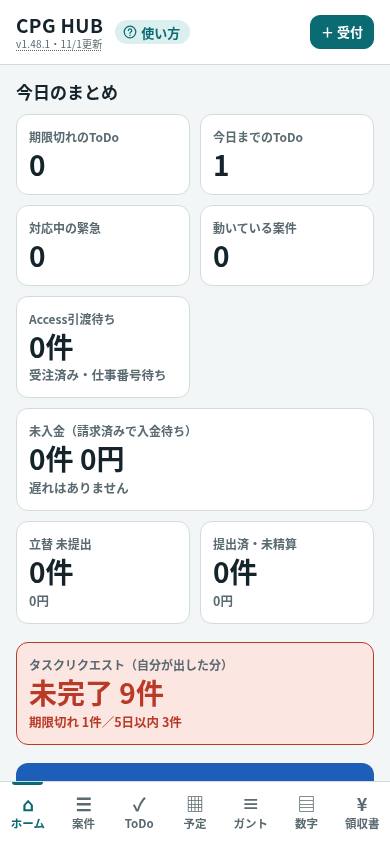
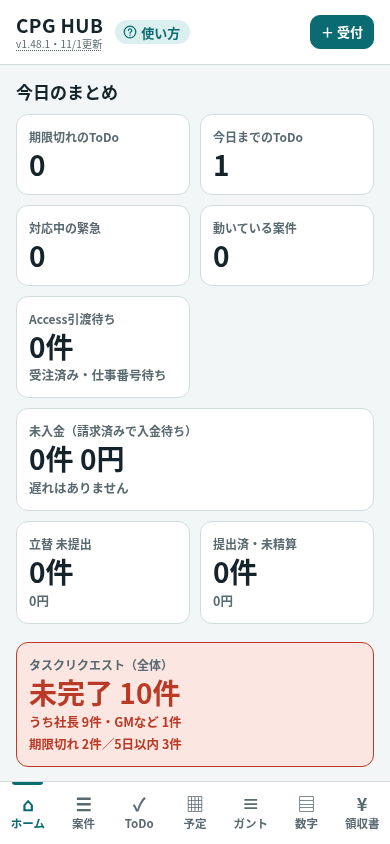
Show all issued requests and author filters for president

Changed region(s): [[0.0308, 0.7701, 0.9846, 0.9242]]

diff --git a/index.html b/index.html
@@ -734,20 +734,21 @@ function sentRequests(){
  let unread=0;
  if(!m||!Array.isArray(data))return {list:[],unread:1};
  for(const x of data){
-  if(!x.s||x.s.removed||eq(x.s.email,m.email)||(!m.admin&&!canSee(m.me,x.s)))continue;
+  if(!x.s||x.s.removed||(!m.admin&&(eq(x.s.email,m.email)||!canSee(m.me,x.s))))continue;
   if(!x.ok){unread++;continue;}
   if(x.s.boxId&&!Array.isArray(x.box))unread++;
   const add=(o,box)=>{
    const id=String(o['指示ID']||'');
    if(!id.startsWith(box?'B-':'I-')||!o['内容'])return;
-   if(box&&!eq(o['出した人Gmail'],m.email))return;
+   if(box&&!m.admin&&!eq(o['出した人Gmail'],m.email))return;
    const state=String(o['状態']||'');
    if(!['未完了','完了','取り消し'].includes(state)){unread++;return;}
    const resolved=box&&state!=='完了'?boxState(o,x.reports).st:state;
    const rank=resolved==='取り消し'?2:resolved==='完了'?1:0;
    const key=JSON.stringify([box?x.s.boxId:x.s.sheetId,id]);
    const old=groups.get(key);if(old&&old.rank>=rank)return;
-   groups.set(key,{rank,t:{id:'sent:'+key,ro:true,kind:'リクエスト',title:String(o['内容']),due:cellDate(o['期限']),tantou:x.s.name,from:box?String(o['出した人の表示']||''):'社長'}});
+   const boss=!box||eq(o['出した人Gmail'],ADMIN_ACCOUNT), sender= boss?'boss':String(o['出した人Gmail']||'').toLowerCase()||'unknown:'+key;
+   groups.set(key,{rank,t:{boss,sender,senderEmail:box?String(o['出した人Gmail']||''):'',id:'sent:'+key,ro:true,kind:'リクエスト',title:String(o['内容']),due:cellDate(o['期限']),tantou:x.s.name,from:boss?'社長':String(o['出した人の表示']||'出した人未確認')}});
   };
   if(m.admin)(x.orders||[]).forEach(o=>add(o,false));
   (Array.isArray(x.box)?x.box:[]).forEach(o=>add(o,true));
@@ -755,10 +756,18 @@ function sentRequests(){
  return {list:[...groups.values()].filter(x=>x.rank===0).map(x=>x.t).sort((a,b)=>(a.due||'9').localeCompare(b.due||'9')),unread};
 }
 function sentRequestTile(){
- const {list,unread}=sentRequests(),t=requestTodayS(),late=list.filter(x=>x.due&&x.due<t).length,soon=list.filter(x=>x.due&&x.due>=t&&x.due<=addDays(t,5)).length;
- return '<button type="button" id="home-requests" class="tile wide'+(late?' alert':'')+'" data-nav="requests" data-sent="1" style="width:100%"><span class="k">タスクリクエスト（自分が出した分）</span><span class="v">未完了 '+list.length+'件</span><span class="s">期限切れ '+late+'件／5日以内 '+soon+'件</span>'+(unread?'<span class="s">読込未確認 '+unread+'件・確認できた分の件数</span>':'')+'</button>';
+ const {list,unread}=sentRequests(),boss=list.filter(x=>x.boss).length,t=requestTodayS(),late=list.filter(x=>x.due&&x.due<t).length,soon=list.filter(x=>x.due&&x.due>=t&&x.due<=addDays(t,5)).length;
+ return '<button type="button" id="home-requests" class="tile wide'+(late?' alert':'')+'" data-nav="requests" data-sent="1" style="width:100%"><span class="k">タスクリクエスト（'+(D().admin?'全体':'自分が出した分')+'）</span><span class="v">未完了 '+list.length+'件</span>'+(D().admin?'<span class="s">うち社長 '+boss+'件・GMなど '+(list.length-boss)+'件</span>':'')+'<span class="s">期限切れ '+late+'件／5日以内 '+soon+'件</span>'+(unread?'<span class="s">読込未確認 '+unread+'件・確認できた分の件数</span>':'')+'</button>';
 }
-function vRequests(){if(ui.sentRequests&&(D().admin||D().viewListId)){const {list,unread}=sentRequests();return '<section class="sec"><div class="sec-h"><h2>指示一覧（自分が出した分）</h2><span class="note">未完了 '+list.length+'件</span></div><button class="btn sm" data-nav="home">ホームへ戻る</button><p class="note">6日以上先・期限なしも含む未完了の指示です。見るだけの一覧です。</p>'+(unread?'<p class="ro" role="alert">読込未確認 '+unread+'件。確認できた分だけ表示しています。</p>':'')+'<div class="list">'+(list.map(todoRow).join('')||'<p class="empty">確認できた未完了の指示はありません</p>')+'</div></section>'}const list=genTodos().concat(roTodos()).filter(isReqTodo).sort((a,b)=>(a.due||'9').localeCompare(b.due||'9'));
+function sentRequestView(){
+ const {list,unread}=sentRequests(),admin=D().admin,authors=[...new Map(list.filter(t=>!t.boss).map(t=>[t.sender,t])).values()];
+ const selected=admin?ui.sentAuthor||'all':'all', shown=list.filter(t=>selected==='all'||t.sender===selected);
+ const options=authors.map(t=>{const same=authors.filter(a=>a.from===t.from).length>1,label=t.from+(same?'（'+(t.senderEmail||'Gmail未確認')+'）':'');return '<option value="'+h(t.sender)+'"'+(selected===t.sender?' selected':'')+'>'+h(label)+'</option>'}).join('');
+ return '<section class="sec"><div class="sec-h"><h2>指示一覧（'+(admin?'全体':'自分が出した分')+'）</h2><span class="note">未完了 '+shown.length+'件</span></div><button class="btn sm" data-nav="home">ホームへ戻る</button><p class="note">6日以上先・期限なしも含む未完了の指示です。見るだけの一覧です。</p>'+
+ (admin?'<label class="f">出した人<select id="sent-author"><option value="all"'+(selected==='all'?' selected':'')+'>全部</option><option value="boss"'+(selected==='boss'?' selected':'')+'>社長</option>'+options+'</select></label>':'')+
+ (unread?'<p class="ro" role="alert">読込未確認 '+unread+'件。確認できた分だけ表示しています。</p>':'')+'<div class="list">'+(shown.map(t=>(admin?'<p class="note">出した人：'+h(t.from)+'</p>':'')+todoRow(t)).join('')||'<p class="empty">確認できた未完了の指示はありません</p>')+'</div></section>';
+}
+function vRequests(){if(ui.sentRequests&&(D().admin||D().viewListId))return sentRequestView();const list=genTodos().concat(roTodos()).filter(isReqTodo).sort((a,b)=>(a.due||'9').localeCompare(b.due||'9'));
  return '<section class="sec"><div class="sec-h"><h2>指示一覧</h2><span class="note">未完了 '+list.length+'件</span></div><button class="btn sm" data-nav="todo">ToDoに戻る</button><p class="note">6日以上先・期限なしも含む未完了の指示です。タップで全文を確認できます。</p>'+roNote()+requestBoxNotice()+'<div class="list">'+(list.map(todoRow).join('')||'<p class="empty">未完了の指示はありません</p>')+'</div></section>';
 }
 function todoRow(t,expanded=false){
@@ -2815,7 +2824,7 @@ document.addEventListener("click",e=>{
   if(el.dataset.act==="mtdclose"){manualTodoClose();return}
   if(el.dataset.act==="mtdbackup"||el.dataset.act==="mtddraft"){manualTodoDownload(el.dataset.act==="mtddraft");return}
   if(el.dataset.open){go("detail",{caseId:el.dataset.open});return}
-  if(el.dataset.nav){const ex={csv:false};if(el.dataset.nav==="requests")ex.sentRequests=!!el.dataset.sent;if(el.closest("#home-summary")&&el.dataset.nav==="cases"){ex.q="";ex.cCo="all";ex.showEnded=false;}if(el.dataset.sharedReceipts)ex.rScope="shared";if(el.dataset.type)ex.type=el.dataset.type;else if(el.dataset.nav==="cases"&&el.closest(".tile"))ex.type="all";if(el.dataset.nav==="cases"){ex.payOnly=!!el.dataset.pay;ex.handoffOnly=!!el.dataset.handoff;}if(el.dataset.nav==="rcpt"&&el.closest(".tile")){ex.rTab=el.dataset.rtab2||"list";ex.rScope="own";}go(el.dataset.nav,ex);if(el.dataset.jump&&ui.view===el.dataset.nav)document.getElementById(el.dataset.jump)?.scrollIntoView();return}
+  if(el.dataset.nav){const ex={csv:false};if(el.dataset.nav==="requests"){ex.sentRequests=!!el.dataset.sent;ex.sentAuthor="all";}if(el.closest("#home-summary")&&el.dataset.nav==="cases"){ex.q="";ex.cCo="all";ex.showEnded=false;}if(el.dataset.sharedReceipts)ex.rScope="shared";if(el.dataset.type)ex.type=el.dataset.type;else if(el.dataset.nav==="cases"&&el.closest(".tile"))ex.type="all";if(el.dataset.nav==="cases"){ex.payOnly=!!el.dataset.pay;ex.handoffOnly=!!el.dataset.handoff;}if(el.dataset.nav==="rcpt"&&el.closest(".tile")){ex.rTab=el.dataset.rtab2||"list";ex.rScope="own";}go(el.dataset.nav,ex);if(el.dataset.jump&&ui.view===el.dataset.nav)document.getElementById(el.dataset.jump)?.scrollIntoView();return}
   if(el.dataset.rscope){ui.rScope=el.dataset.rscope;rClearDl();render();return;}
   if(el.dataset.rtab){ui.rTab=el.dataset.rtab;rClearDl();ui.rcCancel=null;render();return}
   if(el.dataset.ropen){rFormClear();go("rform",{rId:el.dataset.ropen});return}
@@ -3049,6 +3058,7 @@ document.addEventListener("change",e=>{
   if(t.id==="r_case"){receiptCaseChanged(t.value);return;}
   if(t.id==="r_method"||t.id==="r_co"){const card=val("r_method")==="法人カード",w=document.getElementById("r_cardWrap"),sel=document.getElementById("r_card");if(w)w.hidden=!card;
     if(sel){const ks=RS().cards.filter(k=>k.company===val("r_co"));sel.innerHTML=ks.map(k=>'<option value="'+h(k.id)+'">'+h(k.name)+'</option>').join("")||'<option value="">この会社のカードがありません</option>'}return}
+  if(t.id==="sent-author"){if(D().admin){ui.sentAuthor=t.value;render();}return}
   if(t.id==="handoffOnly"){ui.handoffOnly=t.checked;render();return}
   if(t.id==="payOnly"){ui.payOnly=t.checked;render();return}
   if(t.dataset.item!=null&&c){const it=c.items[Number(t.dataset.item)];if(it){it[t.dataset.f]=t.dataset.f==="amount"?(t.value===""?"":Number(t.value)):t.value;save();refreshItemTotals(c)}return}

diff --git a/manual-admin.html b/manual-admin.html
@@ -169,6 +169,6 @@ th{color:var(--muted);font-size:13px}
 <section><h2>v1.47.7（2026年10月31日）ホームの同期結果</h2><p>ホームで自分の端末の同期が最後まで全て成功すると「✅ 同期済み 月/日 時:分」の1行になります。押すと詳しい結果が開き、もう一度押すと閉じます。時刻は日本時間です。エラー・一部失敗・同期途中の終了・今日まだ同期していない警告・未送信の完了報告・対応が必要な注意は隠しません。v1.47.7では同期ボタンの位置と大きさを維持しました（v1.48.0ではホームの順番を変更）。予定や設定画面の詳しい同期結果もそのまま表示します。社長・全社・GMでは、社員の今日未同期や記録の読込失敗だけでは自分の結果を開いたままにしません。社員ごとの注意は「会社の動き」に残り、社員の記録の読込失敗行も折りたたみの外に表示します。自分の端末のエラー・未完了・今日未同期・未送信報告・保存の不確実は、引き続き折りたたみません。</p></section>
 <section><h2>v1.48.0（2026年11月1日）ホームのまとめタイル</h2><p>ホームは「今日のまとめ」のタイル、タスクリクエスト件数、同期ボタンと結果、会社の動きのタイルの順です。0件でも表示します。期限切れ・緊急・入金遅れ・同期の注意は赤で示します。各タイルを押すと詳しいページへ移動します。</p><p>「対応中の緊急」は案件を緊急対応だけに絞り、受付からの経過時間を確認できます。「動いている案件」は案件一覧、「未入金」は数字の未入金、「立替 未提出」「提出済・未精算」は領収書を開きます。「Access引渡待ち」は受注済みで、取消記録がなく、仕事番号が空欄の案件です。1件以上は赤く表示し、押すと同じ条件の案件だけを開きます。一覧の「Access引渡待ちだけ」を外すと絞り込みを解除できます。0件でもタイルは残ります。「今日までのToDo」の件数は従来どおり当日期限分です。リクエストや各集計の計算は変えません。</p><p>社長・全社・GMには「会社の動き」のタイルが出ます。社員数、今日未同期・読めなかった社員の人数を確認し、押すと会社の動きのページを開きます。「ホームへ戻る」で戻ります。下のメニューには追加しません。会社選択・GMの会社範囲は従来どおりです。社員別の立替表は領収書ページの先頭へ移しました。会社の動きで選んだ会社範囲（GMは担当会社）を引き継ぎます。</p><p>同期の成功結果の開閉はv1.47.7と同じです。自分のエラー・未完了・今日未同期・未送信報告・保存未確認はホームに残ります。会社側の注意で自分の成功結果の折りたたみを止めません。注意が多い場合はホームを下へスクロールしてください。</p></section>
 </main>
-<section><h2>v1.48.1（2026年11月1日）自分が出したリクエスト</h2><p>社長・全社・GMのホームのタスクリクエストは、自分が社員に出した未完了の件数です。「期限切れ」と「5日以内（日本時間の今日から5日先まで）」を分けて表示し、期限切れがあれば赤くなります。押すと指示一覧で6日以上先・期限なしも確認できます。社員のホームは従来どおり自分宛てです。I系は既存仕様で社長だけが作るため社長の送信分、B系は出した人のGmailが本人と一致する分です。全社は閲覧可能な社員、GMは担当会社の社員への自分の送信分だけです。読込未確認の記録があれば、確認できた分の件数であることを表示します。</p></section>
+<section><h2>v1.48.1（2026年11月1日）自分が出したリクエスト</h2><p>社長のホームの「タスクリクエスト（全体）」は、社長・GM・全社の人が出した未完了の総数と、社長／GMなどの内訳を表示します。全社・GMのホームは自分が社員に出した分だけです。「期限切れ」と「5日以内（日本時間の今日から5日先まで）」を分けて表示し、期限切れがあれば赤くなります。押すと指示一覧で6日以上先・期限なしも確認できます。社長の一覧では「全部／社長／出した人ごと」を切り替え、各指示に出した人を表示します。同名の作成者はGmail付きの選択肢で区別します。完了・取消ボタンのない閲覧専用です。社員のホームは従来どおり自分宛てです。I系は既存仕様で社長だけが作るため社長の送信分、B系は社長では読めた全員の分、全社・GMでは出した人のGmailが本人と一致する分です。全社は閲覧可能な社員、GMは担当会社の社員への自分の送信分だけです。読込未確認の記録があれば、確認できた分の件数であることを表示します。</p></section>
 </body>
 </html>

diff --git a/manual.html b/manual.html
@@ -401,7 +401,7 @@ th{color:var(--muted);font-size:13px}
 <p class="meta"><a href="./">‹ CPG HUB に戻る</a></p>
 <section><h2>v1.48.0（2026年11月1日）ホームのまとめタイル</h2><p>ホームは「今日のまとめ」のタイル、タスクリクエスト件数、同期ボタンと結果、会社の動きのタイルの順です。0件でも表示します。期限切れ・緊急・入金遅れ・同期の注意は赤で示します。各タイルを押すと詳しいページへ移動します。</p><p>「対応中の緊急」は案件を緊急対応だけに絞り、受付からの経過時間を確認できます。「動いている案件」は案件一覧、「未入金」は数字の未入金、「立替 未提出」「提出済・未精算」は領収書を開きます。「Access引渡待ち」は受注済みで、取消記録がなく、仕事番号が空欄の案件です。1件以上は赤く表示し、押すと同じ条件の案件だけを開きます。一覧の「Access引渡待ちだけ」を外すと絞り込みを解除できます。0件でもタイルは残ります。「今日までのToDo」の件数は従来どおり当日期限分です。リクエストや各集計の計算は変えません。</p><p>社長・全社・GMには「会社の動き」のタイルが出ます。社員数、今日未同期・読めなかった社員の人数を確認し、押すと会社の動きのページを開きます。「ホームへ戻る」で戻ります。下のメニューには追加しません。会社選択・GMの会社範囲は従来どおりです。社員別の立替表は領収書ページの先頭へ移しました。会社の動きで選んだ会社範囲（GMは担当会社）を引き継ぎます。</p><p>同期の成功結果の開閉はv1.47.7と同じです。自分のエラー・未完了・今日未同期・未送信報告・保存未確認はホームに残ります。会社側の注意で自分の成功結果の折りたたみを止めません。注意が多い場合はホームを下へスクロールしてください。</p></section>
 </main>
-<section><h2>v1.48.1（2026年11月1日）自分が出したリクエスト</h2><p>社長・全社・GMのホームのタスクリクエストは、自分が社員に出した未完了の件数です。「期限切れ」と「5日以内（日本時間の今日から5日先まで）」を分けて表示し、期限切れがあれば赤くなります。押すと指示一覧で6日以上先・期限なしも確認できます。社員のホームは従来どおり自分宛てです。I系は既存仕様で社長だけが作るため社長の送信分、B系は出した人のGmailが本人と一致する分です。全社は閲覧可能な社員、GMは担当会社の社員への自分の送信分だけです。読込未確認の記録があれば、確認できた分の件数であることを表示します。</p></section>
+<section><h2>v1.48.1（2026年11月1日）自分が出したリクエスト</h2><p>社長のホームの「タスクリクエスト（全体）」は、社長・GM・全社の人が出した未完了の総数と、社長／GMなどの内訳を表示します。全社・GMのホームは自分が社員に出した分だけです。「期限切れ」と「5日以内（日本時間の今日から5日先まで）」を分けて表示し、期限切れがあれば赤くなります。押すと指示一覧で6日以上先・期限なしも確認できます。社長の一覧では「全部／社長／出した人ごと」を切り替え、各指示に出した人を表示します。同名の作成者はGmail付きの選択肢で区別します。完了・取消ボタンのない閲覧専用です。社員のホームは従来どおり自分宛てです。I系は既存仕様で社長だけが作るため社長の送信分、B系は社長では読めた全員の分、全社・GMでは出した人のGmailが本人と一致する分です。全社は閲覧可能な社員、GMは担当会社の社員への自分の送信分だけです。読込未確認の記録があれば、確認できた分の件数であることを表示します。</p></section>
 </body>
 </html>
 

diff --git a/docs/home-sent-requests.md b/docs/home-sent-requests.md
@@ -1,17 +1,19 @@
-# v1.48.1 自分が出したタスクリクエスト
+# v1.48.1 管理側のタスクリクエスト
 
 基準main: bf2b45dc5c265f1d48429c0c384bcd7848761ebe（PR67）。
 
 ホームの管理側タイルと、既存の指示一覧のホームからの表示だけを変更。社員のホームとToDoから開く指示一覧は従来どおりです。同期・保存・認証・権限・完了報告の処理は変更しません。
 
-I系は既存adminOrderAddが社長だけに提供され、7列に作成者はありません。この既存契約で社長の送信分とします。全社・GMにはI系を自分の送信分として数えません。B系は出した人GmailとboxMeの本人Gmailを大文字小文字を無視して照合し、社長でも他者のB系は除外。自分宛てを除外し、全社・GMは既存canSeeで社員範囲を限定。全社＋gmCo=CPは全社、role=GMは担当会社のみです。
+I系は既存adminOrderAddが社長だけに提供され、7列に作成者はありません。この既存契約で社長の送信分とします。全社・GMにはI系を自分の送信分として数えません。社長は既存読取データの全B系を含め、I系および社長GmailのB系を社長の内訳とします。全社・GMだけはB系の出した人Gmailと本人を照合し、自分宛てを除外して既存canSeeで社員範囲を限定。社長の一覧は作成者Gmailで切り替え、同名の作成者も別に扱います。全社＋gmCo=CPは全社、role=GMは担当会社のみです。
 
 社員のシートID（I系）／指示箱ID（B系）と指示IDで重複をまとめ、取消＞完了＞未完了。B系の完了は既存boxStateと報告情報を使用。期限切れは日本時間の今日より前、5日以内は今日から+5日まで。+6日・期限なしは未完了総数と一覧に残します。読取失敗・未読込・未知状態は確認できた分の件数である旨を表示。件数は最後に読み込んだ記録であり、最新状態は既存同期で読み直します。
 
 ## 検証
 
-`node tests/home-sent-requests-browser.cjs`：7シナリオ群。社長・社員・全社＋CP兼任・CP限定GM、未完了9件／期限切れ1件、今日／+3／+5／+6／期限なし、LA端末時刻でのJST日境界、I/B共存と重複、取消・完了優先、他者送信・自分宛て除外、会社範囲、ホームから指示一覧、全文開閉・閲覧専用、保存データ不変と既存キャッシュ再読込、未読込注意を合成データで検証します。既存home-tilesテストは管理側の遷移先だけrequestsへ更新。
+`node tests/home-sent-requests-browser.cjs`：8シナリオ群。社長・社員・全社＋CP兼任・CP限定GM、本人送信9件／期限切れ1件に加えて社長は他者B系を合算、今日／+3／+5／+6／期限なし、LA端末時刻でのJST日境界、I/B共存と重複、取消・完了優先、他者送信・自分宛て除外、会社範囲、ホームから指示一覧、全文開閉・閲覧専用、保存データ不変と既存キャッシュ再読込、未読込注意を合成データで検証します。既存home-tilesテストは管理側の遷移先だけrequestsへ更新。
 
 画像はsent-接頭辞、390×844と820×900のChromium合成プレビュー。実Google・物理Android/Fold/Flipの確認結果は含みません。全tests/*.cjsを個別実行し、GitHub CIとは区別して報告します。
 
 I系には個別作成者がなく、社長専用という既存契約以上の帰属判定はできません。データ形式を増やす変更や移行は行いません。ワンタイムボードの保全ブランチは対象外です。
+
+社長追加表示の検証：他者B系合算と社長／GMなど内訳、同名で異なるGmailの作成者フィルター、全部／社長／個別の切替、各行の出した人と完了・取消操作がないことを確認。社長一覧・個別切替の390×844／820×900画像も記録します。

diff --git a/docs/引継ぎ.md b/docs/引継ぎ.md
@@ -14,7 +14,7 @@
 ## v1.48.1 自分が出したリクエスト
 
 - 基準main bf2b45dc5c265f1d48429c0c384bcd7848761ebe。PR67・v1.48.0はマージ済み。
-- 社長・全社・GMのホームのタスクリクエストは、自分が社員に出した未完了の件数です。「期限切れ」と「5日以内（日本時間の今日から5日先まで）」を分けて表示し、期限切れがあれば赤くなります。押すと指示一覧で6日以上先・期限なしも確認できます。社員のホームは従来どおり自分宛てです。I系は既存仕様で社長だけが作るため社長の送信分、B系は出した人のGmailが本人と一致する分です。全社は閲覧可能な社員、GMは担当会社の社員への自分の送信分だけです。読込未確認の記録があれば、確認できた分の件数であることを表示します。
+- 社長のホームの「タスクリクエスト（全体）」は、社長・GM・全社の人が出した未完了の総数と、社長／GMなどの内訳を表示します。全社・GMのホームは自分が社員に出した分だけです。「期限切れ」と「5日以内（日本時間の今日から5日先まで）」を分けて表示し、期限切れがあれば赤くなります。押すと指示一覧で6日以上先・期限なしも確認できます。社長の一覧では「全部／社長／出した人ごと」を切り替え、各指示に出した人を表示します。同名の作成者はGmail付きの選択肢で区別します。完了・取消ボタンのない閲覧専用です。社員のホームは従来どおり自分宛てです。I系は既存仕様で社長だけが作るため社長の送信分、B系は社長では読めた全員の分、全社・GMでは出した人のGmailが本人と一致する分です。全社は閲覧可能な社員、GMは担当会社の社員への自分の送信分だけです。読込未確認の記録があれば、確認できた分の件数であることを表示します。
 - 既存の指示一覧にホームからの送信分表示を追加。閲覧専用で、同期・保存・権限は変更しない。
 - 開発時の検証は合成Chromium。実Google・物理端末の確認結果を含まない。
 
